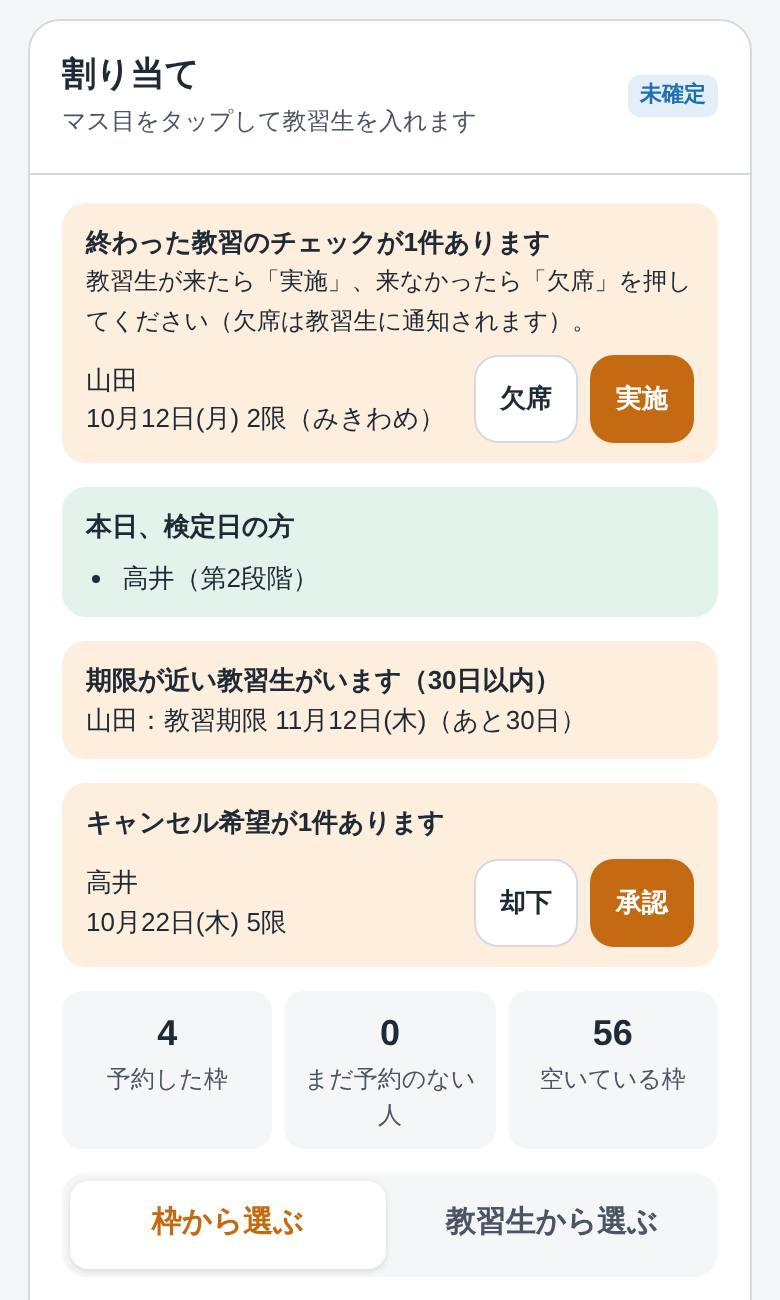
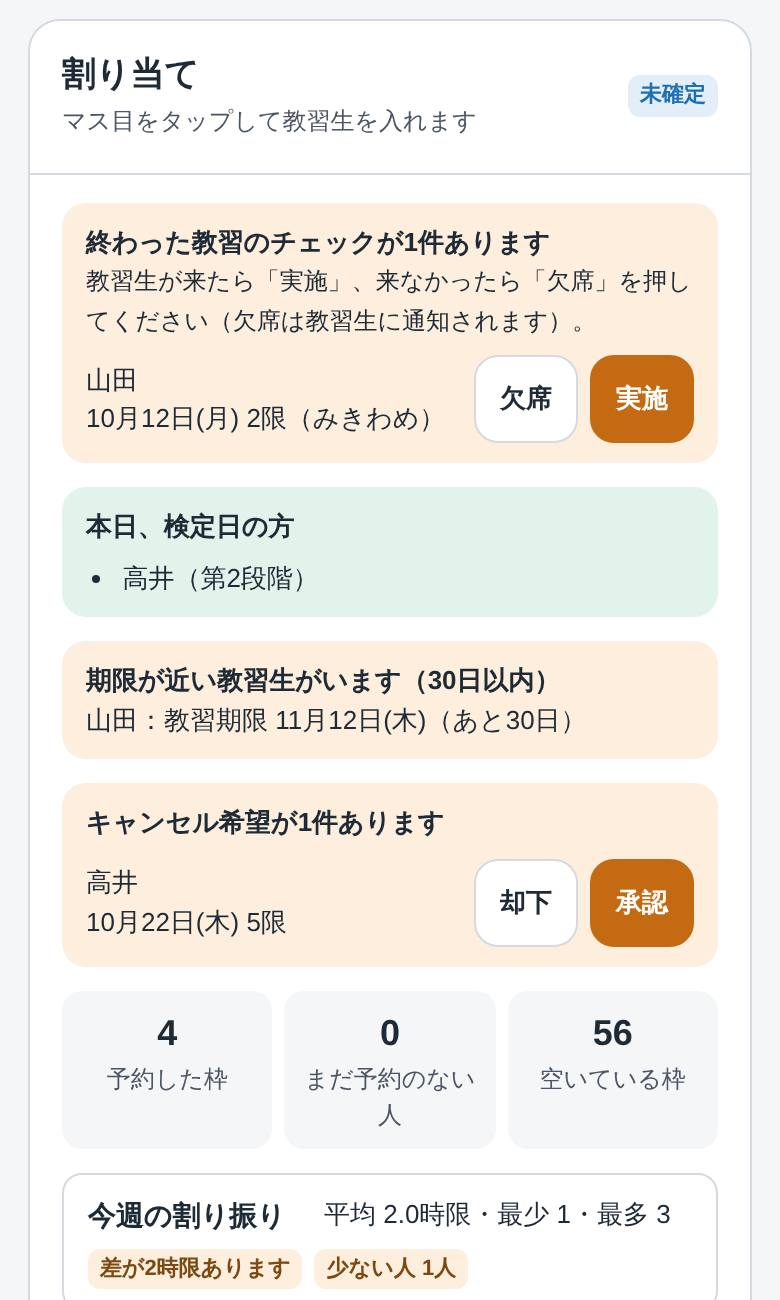
指導員画面に「今週の割り振り」：教習生ごとのこの週の時限数（少ない順・平均・差のお知らせ）。押すとその人を選んで割り当て
Claude-Session: https://claude.ai/code/session_01TFEssVs3Y3zAmrgZUn2J4X

Changed region(s): [[0.0923, 0.9231, 0.8615, 1.0]]

diff --git a/guide-instructor.html b/guide-instructor.html
@@ -49,5 +49,5 @@ footer{margin-top:28px;font-size:13px;color:var(--muted)}
 @media print{body{background:#fff}.phone{box-shadow:none}section.step{break-inside:avoid-page}nav.toc{display:none}}
 </style>
 <div class="wrap"><p style="margin:0 0 12px"><a href="javascript:history.back()" style="color:var(--blue);font-weight:700;text-decoration:none">← 前の画面に戻る</a></p><header class="cover"><div class="eyebrow">聖徳自動車学園　予約の割り当て</div><h1>指導員の画面の使い方</h1><p class="lead">教習生がスマホで登録した空き時間を見ながら、週ごとに予約を割り当てます。確定すると、教習生のスマホに通知が届きます。担当の教習生の登録やQRコードも、この画面で扱います。</p><nav class="toc" aria-label="目次"><a href="#s1">ログイン</a><a href="#s2">画面の見方</a><a href="#s3">マス目の見方</a><a href="#s4">枠から選んで入れる</a><a href="#s5">教習生から選んで入れる</a><a href="#s6">確定して通知する</a><a href="#s7">毎日のチェック</a><a href="#s8">みきわめ</a><a href="#s9">教習生の管理</a><a href="#s10">教習生を登録してQRを渡す</a><a href="#faq">困った時</a></nav></header>
-<section class="step" id="s1"><h2><span class="no">1</span>ログイン</h2><p>指導員用のQRコードを読み取ると、ログイン画面が開きます。最初にホーム画面に追加し、右上の「通知」をオンにしておくと、キャンセル希望などの知らせが届きます。</p><div class="fig"><div class="phone part"><img src="guide/i_login.jpg" alt="画面の例（メールアドレス、パスワード、ログイン）"><div class="mk" style="left:7.1%;top:26.43%;width:85.7%;height:9.36%"><b>1</b></div><div class="mk" style="left:7.1%;top:41.43%;width:85.7%;height:9.36%"><b>2</b></div><div class="mk" style="left:7.1%;top:51.91%;width:85.7%;height:9.36%"><b>3</b></div></div><ol class="notes"><li><b>1</b><div><strong>メールアドレス</strong><span>QRコードから開くと、自分のメールアドレスが入っています。</span></div></li><li><b>2</b><div><strong>パスワード</strong><span>事務所から伝えられたパスワードを入れます。</span></div></li><li><b>3</b><div><strong>ログイン</strong><span>押すと割り当ての画面が開きます。</span></div></li></ol></div></section><section class="step" id="s2"><h2><span class="no">2</span>画面の見方</h2><p>上から順に、週の切り替え、その週の状況、割り当て方の切り替え、マス目が並んでいます。</p><div class="fig"><div class="phone"><img src="guide/i_top.jpg" alt="画面の例（教習生の管理、通知、週の切り替え、確定済み／未確定、この週の状況、割り当て方）"><div class="mk" style="left:2.8%;top:7.91%;width:20.1%;height:2.93%"><b>1</b></div><div class="mk" style="left:68.1%;top:1.05%;width:13.4%;height:6.01%"><b>2</b></div><div class="mk" style="left:2.8%;top:12.66%;width:94.4%;height:6.07%"><b>3</b></div><div class="mk" style="left:79.7%;top:22.76%;width:13.1%;height:3.23%"><b>4</b></div><div class="mk" style="left:7.1%;top:38.67%;width:85.7%;height:10.16%"><b>5</b></div><div class="mk" style="left:7.1%;top:49.45%;width:85.7%;height:6.96%"><b>6</b></div></div><ol class="notes"><li><b>1</b><div><strong>教習生の管理</strong><span>担当の教習生の登録・編集・QRコードの画面に切り替えます（9で説明）。</span></div></li><li><b>2</b><div><strong>通知</strong><span>このスマホで通知を受け取るようにします。</span></div></li><li><b>3</b><div><strong>週の切り替え</strong><span>◀ ▶ で前後の週に移ります。最初は来週が開きます。</span></div></li><li><b>4</b><div><strong>確定済み／未確定</strong><span>この週の予約を教習生に通知したかどうかです。</span></div></li><li><b>5</b><div><strong>この週の状況</strong><span>予約した枠の数、まだ予約のない教習生の人数、空いている枠の数です。</span></div></li><li><b>6</b><div><strong>割り当て方</strong><span>「枠から選ぶ」と「教習生から選ぶ」を切り替えます（4・5で説明）。</span></div></li></ol></div></section><section class="step" id="s3"><h2><span class="no">3</span>マス目の見方</h2><p>縦が時限、横が日付です。空いているマスには、その枠に入れる教習生の人数が出ます。</p><div class="fig"><div class="phone part"><img src="guide/i_grid.jpg" alt="画面の例（色の見方、日付、枠）"><div class="mk" style="left:7.1%;top:2.14%;width:85.7%;height:8.10%"><b>1</b></div><div class="mk" style="left:20.0%;top:17.54%;width:12.7%;height:3.97%"><b>2</b></div><div class="mk" style="left:67.7%;top:21.35%;width:12.2%;height:7.15%"><b>3</b></div></div><ol class="notes"><li><b>1</b><div><strong>色の見方</strong><span>その週で一番多い人数を基準に、緑（少ない）・黄（中間）・赤（多い）に分けています。入れる人が少ない枠ほど先に埋めるのがおすすめです。</span></div></li><li><b>2</b><div><strong>日付</strong><span>土曜は青で出ます。</span></div></li><li><b>3</b><div><strong>枠</strong><span>数字と棒の長さが、その枠に入れる人数です。予約が入ると教習生の名前が出ます。</span></div></li></ol></div></section><section class="step" id="s4"><h2><span class="no">4</span>枠から選んで入れる</h2><p>「枠から選ぶ」のまま、入れたいマスを押します。その枠に入れる教習生の一覧が出ます。</p><div class="fig"><div class="phone"><img src="guide/i_slot.jpg" alt="画面の例（教習の種類、候補の教習生、割り当てる）"><div class="mk" style="left:3.3%;top:67.43%;width:93.4%;height:12.65%"><b>1</b></div><div class="mk" style="left:3.3%;top:80.46%;width:93.4%;height:11.35%"><b>2</b></div><div class="mk" style="left:69.4%;top:81.77%;width:24.0%;height:8.74%"><b>3</b></div></div><ol class="notes"><li><b>1</b><div><strong>教習の種類</strong><span>通常・危険予測・単独高速を切り替えます。危険予測と単独高速は2時限連続でまとめて入ります（第2段階のみ）。</span></div></li><li><b>2</b><div><strong>候補の教習生</strong><span>今週の予約が少ない人、教習期限が近い人の順に並びます。</span></div></li><li><b>3</b><div><strong>割り当てる</strong><span>押すとその枠に入ります。この時点では、まだ教習生に通知されません。</span></div></li></ol></div><div class="tip"><b>ルールは自動で確かめます</b>1日の上限（第1段階2時限・第2段階3時限）、連続3時限、高速教習の組み合わせ、危険予測は12時限目だけ、などのルールに合わない時は入れられません。日没が早い期間の高速教習などは警告が出て、確認すれば入れられます。</div></section><section class="step" id="s5"><h2><span class="no">5</span>教習生から選んで入れる</h2><p>「教習生から選ぶ」に切り替えて、一覧から教習生を選びます。その人が入れる枠だけが光ります。</p><div class="fig"><div class="phone part"><img src="guide/i_pick.jpg" alt="画面の例（割り当て中の教習生、光っている枠、やめる）"><div class="mk" style="left:7.1%;top:1.24%;width:85.7%;height:16.62%"><b>1</b></div><div class="mk" style="left:44.0%;top:41.16%;width:12.2%;height:7.36%"><b>2</b></div><div class="mk" style="left:77.2%;top:2.55%;width:13.1%;height:14.00%"><b>3</b></div></div><ol class="notes"><li><b>1</b><div><strong>割り当て中の教習生</strong><span>選んだ人の段階と、1日に入れられる時限数が出ます。</span></div></li><li><b>2</b><div><strong>光っている枠</strong><span>押すと予約が入ります。オレンジは高速教習、緑は危険予測として入れられる枠です。</span></div></li><li><b>3</b><div><strong>やめる</strong><span>選ぶのをやめて、一覧に戻ります。</span></div></li></ol></div></section><section class="step" id="s6"><h2><span class="no">6</span>確定して通知する</h2><p>割り当てが終わったら、画面下の「この週の予約を確定して通知」を押します。教習生1人につき、1回の通知にまとめて届きます。</p><div class="fig"><div class="phone part"><img src="guide/i_confirm.jpg" alt="画面の例（担当の教習生、確定して通知）"><div class="mk" style="left:7.1%;top:42.01%;width:85.7%;height:16.63%"><b>1</b></div><div class="mk" style="left:7.1%;top:77.38%;width:85.7%;height:9.04%"><b>2</b></div></div><ol class="notes"><li><b>1</b><div><strong>担当の教習生</strong><span>予約の少ない順に並びます。「予約なし」の人がいないか確認してください。</span></div></li><li><b>2</b><div><strong>確定して通知</strong><span>押すと、まだ確定していない予約を教習生に通知します。</span></div></li></ol></div><div class="tip"><b>確定するまでは通知されません</b>確定する前は、何度入れ直しても教習生には通知されません。確定した後に追加・取り消しをすると、その都度通知されます。</div></section><section class="step" id="s7"><h2><span class="no">7</span>毎日のチェック</h2><p>画面の上に、対応が必要なことがまとめて出ます。</p><div class="fig"><div class="phone part"><img src="guide/i_alerts.jpg" alt="画面の例（実施、欠席、本日、検定日の方、承認、却下）"><div class="mk" style="left:74.8%;top:26.91%;width:14.9%;height:7.57%"><b>1</b></div><div class="mk" style="left:60.0%;top:26.91%;width:14.9%;height:7.57%"><b>2</b></div><div class="mk" style="left:7.1%;top:37.06%;width:85.7%;height:10.80%"><b>3</b></div><div class="mk" style="left:74.8%;top:65.60%;width:14.9%;height:7.57%"><b>4</b></div><div class="mk" style="left:60.0%;top:65.60%;width:14.9%;height:7.57%"><b>5</b></div></div><ol class="notes"><li><b>1</b><div><strong>実施</strong><span>教習が終わったら押します。受講済みの時限数が1つ増えます。</span></div></li><li><b>2</b><div><strong>欠席</strong><span>教習生が来なかった時に押します。教習生に欠席の通知が届きます。</span></div></li><li><b>3</b><div><strong>本日、検定日の方</strong><span>今日が検定日の教習生が並びます。</span></div></li><li><b>4</b><div><strong>承認</strong><span>教習生からのキャンセル希望を受けます。予約が取り消され、教習生に通知されます。</span></div></li><li><b>5</b><div><strong>却下</strong><span>キャンセル希望を断ります。予約はそのままで、教習生に通知されます。</span></div></li></ol></div><div class="tip"><b>付け間違えた時</b>マス目の予約を押すと「チェックを取り消す」が出ます。</div></section><section class="step" id="s8"><h2><span class="no">8</span>みきわめ</h2><p>第1段階の12時限目、第2段階の19時限目の教習で「実施」を押すと、みきわめの記録を入れる画面が出ます。不合格の時は、合格するまで次の教習でも同じ画面が出ます。</p><div class="fig"><div class="phone"><img src="guide/i_mk.jpg" alt="画面の例（みきわめの結果、検定日、学科及び効果測定、OK）"><div class="mk" style="left:3.3%;top:55.17%;width:93.4%;height:5.78%"><b>1</b></div><div class="mk" style="left:3.3%;top:61.33%;width:93.4%;height:16.50%"><b>2</b></div><div class="mk" style="left:3.3%;top:79.81%;width:93.4%;height:5.78%"><b>3</b></div><div class="mk" style="left:3.3%;top:85.97%;width:93.4%;height:6.07%"><b>4</b></div></div><ol class="notes"><li><b>1</b><div><strong>みきわめの結果</strong><span>合格か不合格を選びます。</span></div></li><li><b>2</b><div><strong>検定日</strong><span>合格の時だけ出ます。検定日を入れるか、まだ決まっていなければ「検定日は未確定」にチェックします。</span></div></li><li><b>3</b><div><strong>学科及び効果測定</strong><span>終わっているかどうかを選びます。</span></div></li><li><b>4</b><div><strong>OK</strong><span>記録して、教習を実施にします。</span></div></li></ol></div><div class="fig"><div class="phone"><img src="guide/i_mk2.jpg" alt="画面の例（教習生に伝えること、みきわめ報告書）"><div class="mk" style="left:3.3%;top:73.06%;width:93.4%;height:10.10%"><b>1</b></div><div class="mk" style="left:3.3%;top:83.78%;width:93.4%;height:7.79%"><b>2</b></div></div><ol class="notes"><li><b>1</b><div><strong>教習生に伝えること</strong><span>学科及び効果測定が「終わっていない」時に出ます。検定日の2日前までに終わらせるよう、教習生に伝えてください。</span></div></li><li><b>2</b><div><strong>みきわめ報告書</strong><span>学科及び効果測定が終わっていない教習生のみきわめ報告書を提出してください。</span></div></li></ol></div><div class="tip"><b>検定日があとで決まった時</b>「教習生の管理」で教習生の「編集」を開くと、検定日を入れられます。検定日の当日の朝、教習生に通知が届きます。</div></section><section class="step" id="s9"><h2><span class="no">9</span>教習生の管理</h2><p>上の「教習生の管理」を押すと、担当の教習生の一覧が出ます。</p><div class="fig"><div class="phone part"><img src="guide/i_mng.jpg" alt="画面の例（教習生を追加、QRカードを印刷、並べ替え、選ぶ、割り当てに戻る）"><div class="mk" style="left:7.1%;top:12.67%;width:28.3%;height:13.59%"><b>1</b></div><div class="mk" style="left:35.9%;top:12.67%;width:28.3%;height:13.59%"><b>2</b></div><div class="mk" style="left:50.2%;top:30.24%;width:42.6%;height:7.09%"><b>3</b></div><div class="mk" style="left:9.2%;top:45.35%;width:4.9%;height:2.66%"><b>4</b></div><div class="mk" style="left:64.2%;top:1.49%;width:33.0%;height:7.09%"><b>5</b></div></div><ol class="notes"><li><b>1</b><div><strong>教習生を追加</strong><span>新しい教習生を登録します。</span></div></li><li><b>2</b><div><strong>QRカードを印刷</strong><span>チェックを付けた教習生のQRカードをまとめて印刷します。</span></div></li><li><b>3</b><div><strong>並べ替え</strong><span>教習生番号（小さい順・大きい順）、名前（アイウエオ順・逆順）、検定日が近い順・遠い順、教習開始日が近い順・遠い順で並べ替えます。PCでは表の見出しを押しても並べ替えられます。</span></div></li><li><b>4</b><div><strong>選ぶ</strong><span>印刷したい教習生にチェックを付けます。表は横にスクロールでき、右端の「編集」で登録内容の変更、QRコードの表示・再発行、削除ができます。</span></div></li><li><b>5</b><div><strong>割り当てに戻る</strong><span>割り当ての画面に戻ります。</span></div></li></ol></div></section><section class="step" id="s10"><h2><span class="no">10</span>教習生を登録してQRを渡す</h2><p>名前（漢字）とフリガナは必ず入れます。ほかの項目はあとからでも入れられます。</p><div class="fig"><div class="phone"><img src="guide/i_new.jpg" alt="画面の例（名前（漢字）、フリガナ、教習生番号）"><div class="mk" style="left:3.3%;top:16.31%;width:46.5%;height:6.07%"><b>1</b></div><div class="mk" style="left:50.2%;top:16.31%;width:46.5%;height:6.07%"><b>2</b></div><div class="mk" style="left:3.3%;top:25.55%;width:46.5%;height:6.07%"><b>3</b></div></div><ol class="notes"><li><b>1</b><div><strong>名前（漢字）</strong><span>必ず入れます。</span></div></li><li><b>2</b><div><strong>フリガナ</strong><span>必ず入れます。ひらがなで入れても、カタカナに直ります。</span></div></li><li><b>3</b><div><strong>教習生番号</strong><span>数字4桁で入れます（例：0123）。画面の下の方に、生年月日・教習期限日・仮免交付日などが続きます。最後に「保存する」を押します。</span></div></li></ol></div><div class="fig"><div class="phone"><img src="guide/i_qr.jpg" alt="画面の例（その人のQRコード、QRカードを印刷する）"><div class="mk" style="left:21.0%;top:50.25%;width:58.0%;height:27.75%"><b>1</b></div><div class="mk" style="left:3.3%;top:85.97%;width:93.4%;height:6.07%"><b>2</b></div></div><ol class="notes"><li><b>1</b><div><strong>その人のQRコード</strong><span>保存するとすぐに出ます。その場で教習生のスマホのカメラで読み取ってもらい、ホーム画面に追加と通知のオンまで一緒にやると安心です。</span></div></li><li><b>2</b><div><strong>QRカードを印刷する</strong><span>紙で渡したい時に使います。</span></div></li></ol></div><div class="fig"><div class="phone"><img src="guide/i_edit.jpg" alt="画面の例（QRコードを表示する、QRコードを再発行する、この教習生のデータを削除する）"><div class="mk" style="left:3.3%;top:70.75%;width:93.4%;height:6.07%"><b>1</b></div><div class="mk" style="left:3.3%;top:76.97%;width:93.4%;height:8.74%"><b>2</b></div><div class="mk" style="left:3.3%;top:85.86%;width:93.4%;height:6.07%"><b>3</b></div></div><ol class="notes"><li><b>1</b><div><strong>QRコードを表示する</strong><span>読み取り忘れや、スマホを替えた時に使います。</span></div></li><li><b>2</b><div><strong>QRコードを再発行する</strong><span>QRコードをなくした時や、他の人に見られた時に使います。古いQRコードは使えなくなりますが、空き時間や予約はそのまま残ります。</span></div></li><li><b>3</b><div><strong>この教習生のデータを削除する</strong><span>空き時間や予約も含めてすべて消えます。元に戻せません。</span></div></li></ol></div><div class="tip"><b>転校で第2段階から始める人</b>編集画面の「段階」を第2段階にして、「これまでに受けた時限数」を入れてください。</div></section><section class="step" id="faq"><h2><span class="no">？</span>困った時は</h2><div class="faq"><div><strong>教習生の◯が変わった</strong><span>教習生が◯を付け外しすると、開いたままの画面にもすぐに出ます。未確定の予約の枠から◯が外されると、赤く「空き取消」と出ます。</span></div><div><strong>画面の内容が古い気がする</strong><span>画面いちばん下の「最新の情報に更新」を押してください。</span></div><div><strong>画面が開かない・読み込み中のまま</strong><span>LINEなどのアプリの中ではなく、Safari（iPhone）か Chrome（Android）で開いてください。</span></div><div><strong>ログインできない</strong><span>事務所（管理者）に連絡してください。指導員の登録がまだの可能性があります。</span></div></div></section>
+<section class="step" id="s1"><h2><span class="no">1</span>ログイン</h2><p>指導員用のQRコードを読み取ると、ログイン画面が開きます。最初にホーム画面に追加し、右上の「通知」をオンにしておくと、キャンセル希望などの知らせが届きます。</p><div class="fig"><div class="phone part"><img src="guide/i_login.jpg" alt="画面の例（メールアドレス、パスワード、ログイン）"><div class="mk" style="left:7.1%;top:26.43%;width:85.7%;height:9.36%"><b>1</b></div><div class="mk" style="left:7.1%;top:41.43%;width:85.7%;height:9.36%"><b>2</b></div><div class="mk" style="left:7.1%;top:51.91%;width:85.7%;height:9.36%"><b>3</b></div></div><ol class="notes"><li><b>1</b><div><strong>メールアドレス</strong><span>QRコードから開くと、自分のメールアドレスが入っています。</span></div></li><li><b>2</b><div><strong>パスワード</strong><span>事務所から伝えられたパスワードを入れます。</span></div></li><li><b>3</b><div><strong>ログイン</strong><span>押すと割り当ての画面が開きます。</span></div></li></ol></div></section><section class="step" id="s2"><h2><span class="no">2</span>画面の見方</h2><p>上から順に、週の切り替え、その週の状況、割り当て方の切り替え、マス目が並んでいます。</p><div class="fig"><div class="phone"><img src="guide/i_top.jpg" alt="画面の例（教習生の管理、通知、週の切り替え、確定済み／未確定、この週の状況、今週の割り振り、割り当て方）"><div class="mk" style="left:2.8%;top:7.91%;width:20.1%;height:2.93%"><b>1</b></div><div class="mk" style="left:68.1%;top:1.05%;width:13.4%;height:6.01%"><b>2</b></div><div class="mk" style="left:2.8%;top:12.66%;width:94.4%;height:6.07%"><b>3</b></div><div class="mk" style="left:79.7%;top:22.76%;width:13.1%;height:3.23%"><b>4</b></div><div class="mk" style="left:7.1%;top:38.67%;width:85.7%;height:10.16%"><b>5</b></div><div class="mk" style="left:7.4%;top:49.57%;width:85.2%;height:5.66%"><b>6</b></div><div class="mk" style="left:7.1%;top:55.96%;width:85.7%;height:6.96%"><b>7</b></div></div><ol class="notes"><li><b>1</b><div><strong>教習生の管理</strong><span>担当の教習生の登録・編集・QRコードの画面に切り替えます（9で説明）。</span></div></li><li><b>2</b><div><strong>通知</strong><span>このスマホで通知を受け取るようにします。</span></div></li><li><b>3</b><div><strong>週の切り替え</strong><span>◀ ▶ で前後の週に移ります。最初は来週が開きます。</span></div></li><li><b>4</b><div><strong>確定済み／未確定</strong><span>この週の予約を教習生に通知したかどうかです。</span></div></li><li><b>5</b><div><strong>この週の状況</strong><span>予約した枠の数、まだ予約のない教習生の人数、空いている枠の数です。</span></div></li><li><b>6</b><div><strong>今週の割り振り</strong><span>教習生ごとに、この週に何時限入っているかを確認できます（押すと一覧が開きます）。平均・最少・最多と、差が2時限以上ある時はお知らせが出ます。一覧は少ない人から並び、0時限は赤、平均より1時限以上少ない人はオレンジです。名前を押すと、その人を選んで割り当てられます。進み具合に差がつかないよう、少ない人から先に入れてください。</span></div></li><li><b>7</b><div><strong>割り当て方</strong><span>「枠から選ぶ」と「教習生から選ぶ」を切り替えます（4・5で説明）。</span></div></li></ol></div></section><section class="step" id="s3"><h2><span class="no">3</span>マス目の見方</h2><p>縦が時限、横が日付です。空いているマスには、その枠に入れる教習生の人数が出ます。</p><div class="fig"><div class="phone part"><img src="guide/i_grid.jpg" alt="画面の例（色の見方、日付、枠）"><div class="mk" style="left:7.1%;top:2.14%;width:85.7%;height:8.10%"><b>1</b></div><div class="mk" style="left:20.0%;top:17.54%;width:12.7%;height:3.97%"><b>2</b></div><div class="mk" style="left:67.7%;top:21.35%;width:12.2%;height:7.15%"><b>3</b></div></div><ol class="notes"><li><b>1</b><div><strong>色の見方</strong><span>その週で一番多い人数を基準に、緑（少ない）・黄（中間）・赤（多い）に分けています。入れる人が少ない枠ほど先に埋めるのがおすすめです。</span></div></li><li><b>2</b><div><strong>日付</strong><span>土曜は青で出ます。</span></div></li><li><b>3</b><div><strong>枠</strong><span>数字と棒の長さが、その枠に入れる人数です。予約が入ると教習生の名前が出ます。</span></div></li></ol></div></section><section class="step" id="s4"><h2><span class="no">4</span>枠から選んで入れる</h2><p>「枠から選ぶ」のまま、入れたいマスを押します。その枠に入れる教習生の一覧が出ます。</p><div class="fig"><div class="phone"><img src="guide/i_slot.jpg" alt="画面の例（教習の種類、候補の教習生、割り当てる）"><div class="mk" style="left:3.3%;top:67.43%;width:93.4%;height:12.65%"><b>1</b></div><div class="mk" style="left:3.3%;top:80.46%;width:93.4%;height:11.35%"><b>2</b></div><div class="mk" style="left:69.9%;top:81.77%;width:23.5%;height:8.74%"><b>3</b></div></div><ol class="notes"><li><b>1</b><div><strong>教習の種類</strong><span>通常・危険予測・単独高速を切り替えます。危険予測と単独高速は2時限連続でまとめて入ります（第2段階のみ）。</span></div></li><li><b>2</b><div><strong>候補の教習生</strong><span>今週の予約が少ない人、教習期限が近い人の順に並びます。</span></div></li><li><b>3</b><div><strong>割り当てる</strong><span>押すとその枠に入ります。この時点では、まだ教習生に通知されません。</span></div></li></ol></div><div class="tip"><b>ルールは自動で確かめます</b>1日の上限（第1段階2時限・第2段階3時限）、連続3時限、高速教習の組み合わせ、危険予測は12時限目だけ、などのルールに合わない時は入れられません。日没が早い期間の高速教習などは警告が出て、確認すれば入れられます。</div></section><section class="step" id="s5"><h2><span class="no">5</span>教習生から選んで入れる</h2><p>「教習生から選ぶ」に切り替えて、一覧から教習生を選びます。その人が入れる枠だけが光ります。</p><div class="fig"><div class="phone part"><img src="guide/i_pick.jpg" alt="画面の例（割り当て中の教習生、光っている枠、やめる）"><div class="mk" style="left:7.1%;top:1.24%;width:85.7%;height:16.62%"><b>1</b></div><div class="mk" style="left:44.0%;top:41.16%;width:12.2%;height:7.36%"><b>2</b></div><div class="mk" style="left:77.2%;top:2.55%;width:13.1%;height:14.00%"><b>3</b></div></div><ol class="notes"><li><b>1</b><div><strong>割り当て中の教習生</strong><span>選んだ人の段階と、1日に入れられる時限数が出ます。</span></div></li><li><b>2</b><div><strong>光っている枠</strong><span>押すと予約が入ります。オレンジは高速教習、緑は危険予測として入れられる枠です。</span></div></li><li><b>3</b><div><strong>やめる</strong><span>選ぶのをやめて、一覧に戻ります。</span></div></li></ol></div></section><section class="step" id="s6"><h2><span class="no">6</span>確定して通知する</h2><p>割り当てが終わったら、画面下の「この週の予約を確定して通知」を押します。教習生1人につき、1回の通知にまとめて届きます。</p><div class="fig"><div class="phone part"><img src="guide/i_confirm.jpg" alt="画面の例（担当の教習生、確定して通知）"><div class="mk" style="left:7.1%;top:33.67%;width:85.7%;height:20.80%"><b>1</b></div><div class="mk" style="left:7.1%;top:77.38%;width:85.7%;height:9.04%"><b>2</b></div></div><ol class="notes"><li><b>1</b><div><strong>担当の教習生</strong><span>予約の少ない順に並びます。「予約なし」の人がいないか確認してください。</span></div></li><li><b>2</b><div><strong>確定して通知</strong><span>押すと、まだ確定していない予約を教習生に通知します。</span></div></li></ol></div><div class="tip"><b>確定するまでは通知されません</b>確定する前は、何度入れ直しても教習生には通知されません。確定した後に追加・取り消しをすると、その都度通知されます。</div></section><section class="step" id="s7"><h2><span class="no">7</span>毎日のチェック</h2><p>画面の上に、対応が必要なことがまとめて出ます。</p><div class="fig"><div class="phone part"><img src="guide/i_alerts.jpg" alt="画面の例（実施、欠席、本日、検定日の方、承認、却下）"><div class="mk" style="left:74.8%;top:26.91%;width:14.9%;height:7.57%"><b>1</b></div><div class="mk" style="left:60.0%;top:26.91%;width:14.9%;height:7.57%"><b>2</b></div><div class="mk" style="left:7.1%;top:37.06%;width:85.7%;height:10.80%"><b>3</b></div><div class="mk" style="left:74.8%;top:65.60%;width:14.9%;height:7.57%"><b>4</b></div><div class="mk" style="left:60.0%;top:65.60%;width:14.9%;height:7.57%"><b>5</b></div></div><ol class="notes"><li><b>1</b><div><strong>実施</strong><span>教習が終わったら押します。受講済みの時限数が1つ増えます。</span></div></li><li><b>2</b><div><strong>欠席</strong><span>教習生が来なかった時に押します。教習生に欠席の通知が届きます。</span></div></li><li><b>3</b><div><strong>本日、検定日の方</strong><span>今日が検定日の教習生が並びます。</span></div></li><li><b>4</b><div><strong>承認</strong><span>教習生からのキャンセル希望を受けます。予約が取り消され、教習生に通知されます。</span></div></li><li><b>5</b><div><strong>却下</strong><span>キャンセル希望を断ります。予約はそのままで、教習生に通知されます。</span></div></li></ol></div><div class="tip"><b>付け間違えた時</b>マス目の予約を押すと「チェックを取り消す」が出ます。</div></section><section class="step" id="s8"><h2><span class="no">8</span>みきわめ</h2><p>第1段階の12時限目、第2段階の19時限目の教習で「実施」を押すと、みきわめの記録を入れる画面が出ます。不合格の時は、合格するまで次の教習でも同じ画面が出ます。</p><div class="fig"><div class="phone"><img src="guide/i_mk.jpg" alt="画面の例（みきわめの結果、検定日、学科及び効果測定、OK）"><div class="mk" style="left:3.3%;top:55.17%;width:93.4%;height:5.78%"><b>1</b></div><div class="mk" style="left:3.3%;top:61.33%;width:93.4%;height:16.50%"><b>2</b></div><div class="mk" style="left:3.3%;top:79.81%;width:93.4%;height:5.78%"><b>3</b></div><div class="mk" style="left:3.3%;top:85.97%;width:93.4%;height:6.07%"><b>4</b></div></div><ol class="notes"><li><b>1</b><div><strong>みきわめの結果</strong><span>合格か不合格を選びます。</span></div></li><li><b>2</b><div><strong>検定日</strong><span>合格の時だけ出ます。検定日を入れるか、まだ決まっていなければ「検定日は未確定」にチェックします。</span></div></li><li><b>3</b><div><strong>学科及び効果測定</strong><span>終わっているかどうかを選びます。</span></div></li><li><b>4</b><div><strong>OK</strong><span>記録して、教習を実施にします。</span></div></li></ol></div><div class="fig"><div class="phone"><img src="guide/i_mk2.jpg" alt="画面の例（教習生に伝えること、みきわめ報告書）"><div class="mk" style="left:3.3%;top:73.06%;width:93.4%;height:10.10%"><b>1</b></div><div class="mk" style="left:3.3%;top:83.78%;width:93.4%;height:7.79%"><b>2</b></div></div><ol class="notes"><li><b>1</b><div><strong>教習生に伝えること</strong><span>学科及び効果測定が「終わっていない」時に出ます。検定日の2日前までに終わらせるよう、教習生に伝えてください。</span></div></li><li><b>2</b><div><strong>みきわめ報告書</strong><span>学科及び効果測定が終わっていない教習生のみきわめ報告書を提出してください。</span></div></li></ol></div><div class="tip"><b>検定日があとで決まった時</b>「教習生の管理」で教習生の「編集」を開くと、検定日を入れられます。検定日の当日の朝、教習生に通知が届きます。</div></section><section class="step" id="s9"><h2><span class="no">9</span>教習生の管理</h2><p>上の「教習生の管理」を押すと、担当の教習生の一覧が出ます。</p><div class="fig"><div class="phone part"><img src="guide/i_mng.jpg" alt="画面の例（教習生を追加、QRカードを印刷、並べ替え、選ぶ、割り当てに戻る）"><div class="mk" style="left:7.1%;top:12.67%;width:28.3%;height:13.59%"><b>1</b></div><div class="mk" style="left:35.9%;top:12.67%;width:28.3%;height:13.59%"><b>2</b></div><div class="mk" style="left:50.2%;top:30.24%;width:42.6%;height:7.09%"><b>3</b></div><div class="mk" style="left:9.2%;top:45.35%;width:4.9%;height:2.66%"><b>4</b></div><div class="mk" style="left:64.2%;top:1.49%;width:33.0%;height:7.09%"><b>5</b></div></div><ol class="notes"><li><b>1</b><div><strong>教習生を追加</strong><span>新しい教習生を登録します。</span></div></li><li><b>2</b><div><strong>QRカードを印刷</strong><span>チェックを付けた教習生のQRカードをまとめて印刷します。</span></div></li><li><b>3</b><div><strong>並べ替え</strong><span>教習生番号（小さい順・大きい順）、名前（アイウエオ順・逆順）、検定日が近い順・遠い順、教習開始日が近い順・遠い順で並べ替えます。PCでは表の見出しを押しても並べ替えられます。</span></div></li><li><b>4</b><div><strong>選ぶ</strong><span>印刷したい教習生にチェックを付けます。表は横にスクロールでき、右端の「編集」で登録内容の変更、QRコードの表示・再発行、削除ができます。</span></div></li><li><b>5</b><div><strong>割り当てに戻る</strong><span>割り当ての画面に戻ります。</span></div></li></ol></div></section><section class="step" id="s10"><h2><span class="no">10</span>教習生を登録してQRを渡す</h2><p>名前（漢字）とフリガナは必ず入れます。ほかの項目はあとからでも入れられます。</p><div class="fig"><div class="phone"><img src="guide/i_new.jpg" alt="画面の例（名前（漢字）、フリガナ、教習生番号）"><div class="mk" style="left:3.3%;top:16.31%;width:46.5%;height:6.07%"><b>1</b></div><div class="mk" style="left:50.2%;top:16.31%;width:46.5%;height:6.07%"><b>2</b></div><div class="mk" style="left:3.3%;top:25.55%;width:46.5%;height:6.07%"><b>3</b></div></div><ol class="notes"><li><b>1</b><div><strong>名前（漢字）</strong><span>必ず入れます。</span></div></li><li><b>2</b><div><strong>フリガナ</strong><span>必ず入れます。ひらがなで入れても、カタカナに直ります。</span></div></li><li><b>3</b><div><strong>教習生番号</strong><span>数字4桁で入れます（例：0123）。画面の下の方に、生年月日・教習期限日・仮免交付日などが続きます。最後に「保存する」を押します。</span></div></li></ol></div><div class="fig"><div class="phone"><img src="guide/i_qr.jpg" alt="画面の例（その人のQRコード、QRカードを印刷する）"><div class="mk" style="left:21.0%;top:50.25%;width:58.0%;height:27.75%"><b>1</b></div><div class="mk" style="left:3.3%;top:85.97%;width:93.4%;height:6.07%"><b>2</b></div></div><ol class="notes"><li><b>1</b><div><strong>その人のQRコード</strong><span>保存するとすぐに出ます。その場で教習生のスマホのカメラで読み取ってもらい、ホーム画面に追加と通知のオンまで一緒にやると安心です。</span></div></li><li><b>2</b><div><strong>QRカードを印刷する</strong><span>紙で渡したい時に使います。</span></div></li></ol></div><div class="fig"><div class="phone"><img src="guide/i_edit.jpg" alt="画面の例（QRコードを表示する、QRコードを再発行する、この教習生のデータを削除する）"><div class="mk" style="left:3.3%;top:70.75%;width:93.4%;height:6.07%"><b>1</b></div><div class="mk" style="left:3.3%;top:76.97%;width:93.4%;height:8.74%"><b>2</b></div><div class="mk" style="left:3.3%;top:85.86%;width:93.4%;height:6.07%"><b>3</b></div></div><ol class="notes"><li><b>1</b><div><strong>QRコードを表示する</strong><span>読み取り忘れや、スマホを替えた時に使います。</span></div></li><li><b>2</b><div><strong>QRコードを再発行する</strong><span>QRコードをなくした時や、他の人に見られた時に使います。古いQRコードは使えなくなりますが、空き時間や予約はそのまま残ります。</span></div></li><li><b>3</b><div><strong>この教習生のデータを削除する</strong><span>空き時間や予約も含めてすべて消えます。元に戻せません。</span></div></li></ol></div><div class="tip"><b>転校で第2段階から始める人</b>編集画面の「段階」を第2段階にして、「これまでに受けた時限数」を入れてください。</div></section><section class="step" id="faq"><h2><span class="no">？</span>困った時は</h2><div class="faq"><div><strong>教習生の◯が変わった</strong><span>教習生が◯を付け外しすると、開いたままの画面にもすぐに出ます。未確定の予約の枠から◯が外されると、赤く「空き取消」と出ます。</span></div><div><strong>画面の内容が古い気がする</strong><span>画面いちばん下の「最新の情報に更新」を押してください。</span></div><div><strong>画面が開かない・読み込み中のまま</strong><span>LINEなどのアプリの中ではなく、Safari（iPhone）か Chrome（Android）で開いてください。</span></div><div><strong>ログインできない</strong><span>事務所（管理者）に連絡してください。指導員の登録がまだの可能性があります。</span></div></div></section>
 <footer>画面の名前や日付は説明用の見本です。運用のルールが変わると、画面や説明も変わることがあります。</footer></div>

diff --git a/js/instructor.js b/js/instructor.js
@@ -219,8 +219,25 @@ const daysLeft = s => s.deadline ? Math.round((parseDate(s.deadline) - today()) 
 const unacked = s => s.lastNotifiedAt && (!s.ackAt || s.lastNotifiedAt.toMillis() > s.ackAt.toMillis());
 const info = s => {
   const dl = daysLeft(s), pl = planOf(s), min = lessonMin(s.stage);
-  return `第${s.stage}段階・実施${doneOf(s)}/${min}時限${pl.items.length ? `・予定${pl.total - doneOf(s)}` : ""}${min && pl.total > min ? "・延長あり" : ""}・今週${weekCount(s.token)}件${dl !== null ? `・期限まであと${dl}日` : ""}`;
+  return `第${s.stage}段階・実施${doneOf(s)}/${min}時限${pl.items.length ? `・予定${pl.total - doneOf(s)}` : ""}${min && pl.total > min ? "・延長あり" : ""}・今週${weekCount(s.token)}時限${dl !== null ? `・期限まであと${dl}日` : ""}`;
 };
+
+/* ---------- 今週の割り振り（教習生ごとの時限数） ---------- */
+// 進み具合に差がつかないよう、この週に何時限入っているかを並べる（少ない順）。平均より1時限以上少ない人は注意、0は赤
+function balanceHtml() {
+  if (!S.students.length) return "";
+  const rows = S.students.map(s => ({ s, n: weekCount(s.token), d: S.bookings.filter(b => b.token === s.token && b.status === "draft").length, free: freeCount(s) }))
+    .sort((a, b) => a.n - b.n || String(a.s.deadline || "9").localeCompare(String(b.s.deadline || "9")));
+  const avg = rows.reduce((t, r) => t + r.n, 0) / rows.length, min = rows[0].n, max = rows[rows.length - 1].n;
+  const low = rows.filter(r => r.n <= avg - 1).length, top = Math.max(1, max);
+  const lv = r => r.n === 0 ? "zero" : r.n <= avg - 1 ? "low" : "ok";
+  let h = `<details class="bal" ${S.balOpen ? "open" : ""}><summary><b>今週の割り振り</b>　平均 ${avg.toFixed(1)}時限・最少 ${min}・最多 ${max}${max - min >= 2 ? `<span class="tag late">差が${max - min}時限あります</span>` : ""}${low ? `<span class="tag wait">少ない人 ${low}人</span>` : ""}</summary>
+    <div class="balnote">この週に入っている時限数です（未確定を含みます）。少ない人から順に並んでいます。押すと、その人を選んで割り当てられます。</div><div class="ballist">`;
+  rows.forEach(r => {
+    h += `<button class="balrow ${lv(r)}" data-act="balPick" data-s="${r.s.token}"><span class="nm">${esc(r.s.name)}</span><span class="bar"><i style="width:${Math.round(r.n / top * 100)}%"></i></span><span class="n"><b>${r.n}</b>時限${r.d ? `<small>（未確定${r.d}）</small>` : ""}</span><span class="fr">${r.free ? `◯${r.free}枠` : "◯なし"}</span></button>`;
+  });
+  return h + `</div></details>`;
+}
 
 /* ---------- 画面 ---------- */
 function render() {
@@ -262,6 +279,7 @@ function render() {
   const none = S.students.filter(s => weekCount(s.token) === 0).length;
   const total = ds.length * 10;
   h += `<div class="sum"><div><b>${S.bookings.length}</b>予約した枠</div><div class="${none ? "alert" : ""}"><b>${none}</b>まだ予約のない人</div><div><b>${total - S.bookings.length}</b>空いている枠</div></div>`;
+  h += balanceHtml();
   h += `<div class="seg" role="group" aria-label="割り当て方"><button aria-pressed="${S.mode === "slot"}" data-act="mode" data-v="slot">枠から選ぶ</button><button aria-pressed="${S.mode === "student"}" data-act="mode" data-v="student">教習生から選ぶ</button></div>`;
 
   let maxN = 1; ds.forEach(d => { for (let p = 1; p <= 10; p++) maxN = Math.max(maxN, S.students.filter(s => isFree(s.token, d, p)).length); });
@@ -309,7 +327,7 @@ function render() {
     h += `<h3>担当の教習生（予約の少ない順）</h3><div class="slist">`;
     list.forEach(s => {
       const n = weekCount(s.token);
-      h += `<button class="srow" aria-pressed="${S.pick === s.token}" data-act="pick" data-s="${s.token}"><span><span class="t">${esc(s.name)}</span>${S.late[s.token] ? ' <span class="tag late">締切後に変更あり</span>' : ""}<br><span class="s">${info(s)}・この週の空き${freeCount(s)}枠</span></span><span class="cnt ${n ? "some" : "zero"}">${n ? `予約${n}件` : "予約なし"}</span></button>`;
+      h += `<button class="srow" aria-pressed="${S.pick === s.token}" data-act="pick" data-s="${s.token}"><span><span class="t">${esc(s.name)}</span>${S.late[s.token] ? ' <span class="tag late">締切後に変更あり</span>' : ""}<br><span class="s">${info(s)}・この週の空き${freeCount(s)}枠</span></span><span class="cnt ${n ? "some" : "zero"}">${n ? `今週${n}時限` : "予約なし"}</span></button>`;
     });
     h += `</div>`;
   }
@@ -576,6 +594,7 @@ document.addEventListener("click", async e => {
     else if (a === "view") { showView(t.dataset.v); if (t.dataset.v === "assign" && S.uid) await loadWeek(); }
     else if (a === "reload") { await loadWeek(); }
     else if (a === "wk") { S.week = addDays(S.week, +t.dataset.v); S.pick = null; await loadWeek(); }
+    else if (a === "balPick") { S.mode = "student"; S.pick = t.dataset.s; S.ptype = null; render(); window.scrollTo({ top: 0, behavior: "smooth" }); }
     else if (a === "mode") { S.mode = t.dataset.v; if (S.mode === "slot") S.pick = null; render(); }
     else if (a === "pick") { S.pick = S.pick === t.dataset.s ? null : t.dataset.s; render(); window.scrollTo({ top: 0, behavior: "smooth" }); }
     else if (a === "unpick") { S.pick = null; S.ptype = null; render(); }
@@ -652,6 +671,8 @@ document.addEventListener("click", async e => {
     }
   } catch (err) { toast(friendlyError(err)); render(); }
 });
+// 「今週の割り振り」を開いたかどうかを覚えておく（描き直しても閉じないように）
+document.addEventListener("toggle", e => { if (e.target.classList && e.target.classList.contains("bal")) S.balOpen = e.target.open; }, true);
 // みきわめのフォーム：合格の時だけ検定日を出す。「未確定」なら日付は入れない
 document.addEventListener("change", e => {
   if (e.target.name === "mk_pass") document.getElementById("mk_kentei").hidden = e.target.value !== "1";

diff --git a/css/app.css b/css/app.css
@@ -202,3 +202,18 @@ body.pc[data-mode="admin"] #app>section.panel{max-width:480px;margin:60px auto}
 .radio{display:inline-flex;align-items:center;gap:8px;padding:10px 14px;border:1px solid var(--line);border-radius:10px;font-size:15px;cursor:pointer}
 .radio input,.field .radio input{width:20px;height:20px;min-height:0;margin:0;padding:0;flex:none}
 .radio:has(input:checked){border-color:var(--blue);background:var(--blue-soft)}
+/* 今週の割り振り（教習生ごとの時限数） */
+.bal{border:1px solid var(--line);border-radius:10px;margin-bottom:12px;background:var(--surface)}
+.bal summary{padding:10px 12px;cursor:pointer;font-size:13px;display:flex;flex-wrap:wrap;gap:6px;align-items:center}
+.bal summary b{font-size:14px}
+.balnote{font-size:12px;color:var(--muted);padding:0 12px 6px}
+.ballist{display:grid;gap:4px;padding:0 8px 10px}
+.balrow{display:grid;grid-template-columns:minmax(0,7em) minmax(0,1fr) auto auto;gap:8px;align-items:center;border:0;border-radius:8px;background:var(--bg);padding:6px 8px;text-align:left;font-size:13px;width:100%;color:var(--ink)}
+.balrow .nm{font-weight:700;overflow:hidden;text-overflow:ellipsis;white-space:nowrap}
+.balrow .bar{height:8px;border-radius:4px;background:var(--line);overflow:hidden}
+.balrow .bar i{display:block;height:100%;background:var(--blue)}
+.balrow .n{white-space:nowrap;font-variant-numeric:tabular-nums}.balrow .n b{font-size:15px}
+.balrow .n small{color:var(--muted);font-size:11px}
+.balrow .fr{font-size:11px;color:var(--muted);white-space:nowrap}
+.balrow.low{background:var(--orange-soft)}.balrow.low .bar i{background:var(--orange)}
+.balrow.zero{background:var(--lv3-soft)}.balrow.zero .n b{color:var(--lv3)}
